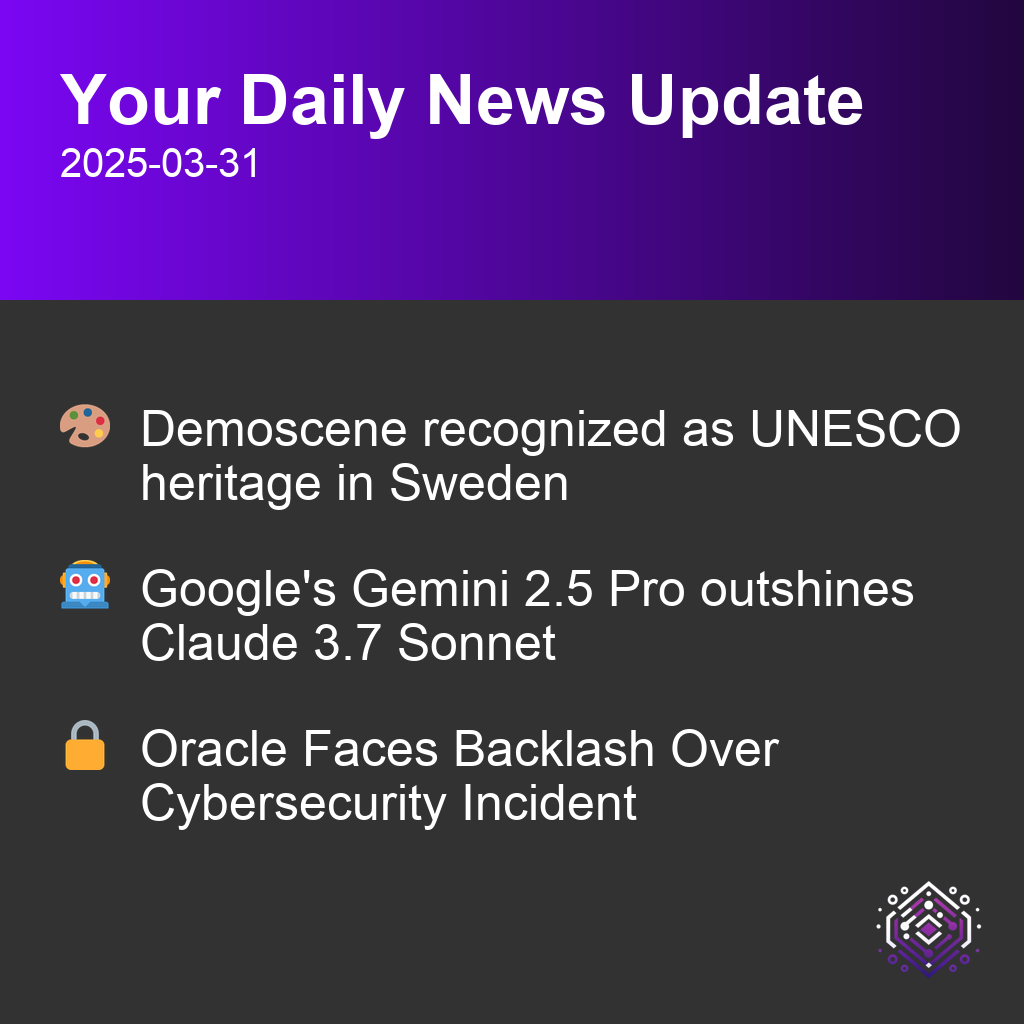
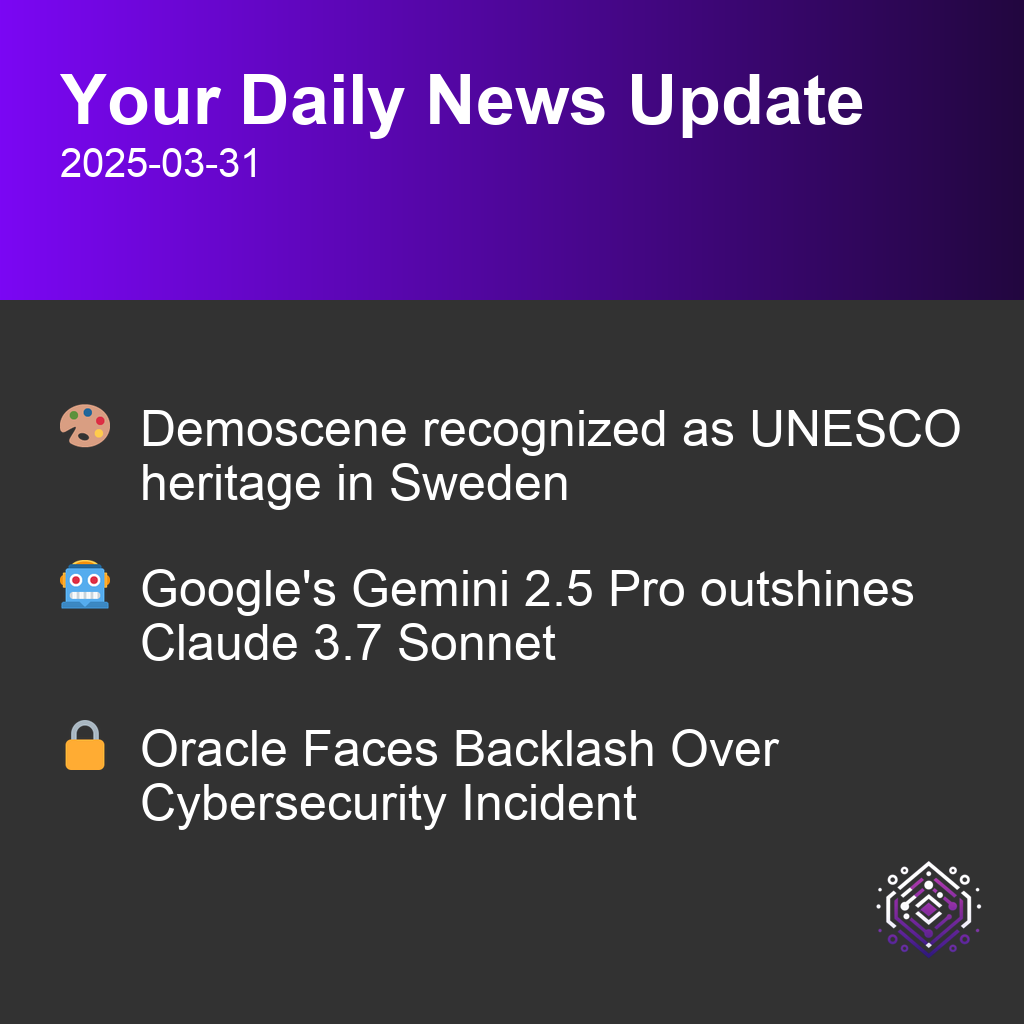
auto commit

Changed region(s): [[0.8438, 0.8438, 0.9688, 0.9688]]

diff --git a/src/buildPost/create_image.py b/src/buildPost/create_image.py
@@ -65,7 +65,7 @@ def create_image(news_topics, output_dir):
 
     img.paste(
         logo,
-        (img.width - logo.width - padding + 40, img.height - logo.height - padding + 20),
+        (img.width - logo.width - padding + 40, img.height - logo.height - padding + 40),
         logo
     )
 
